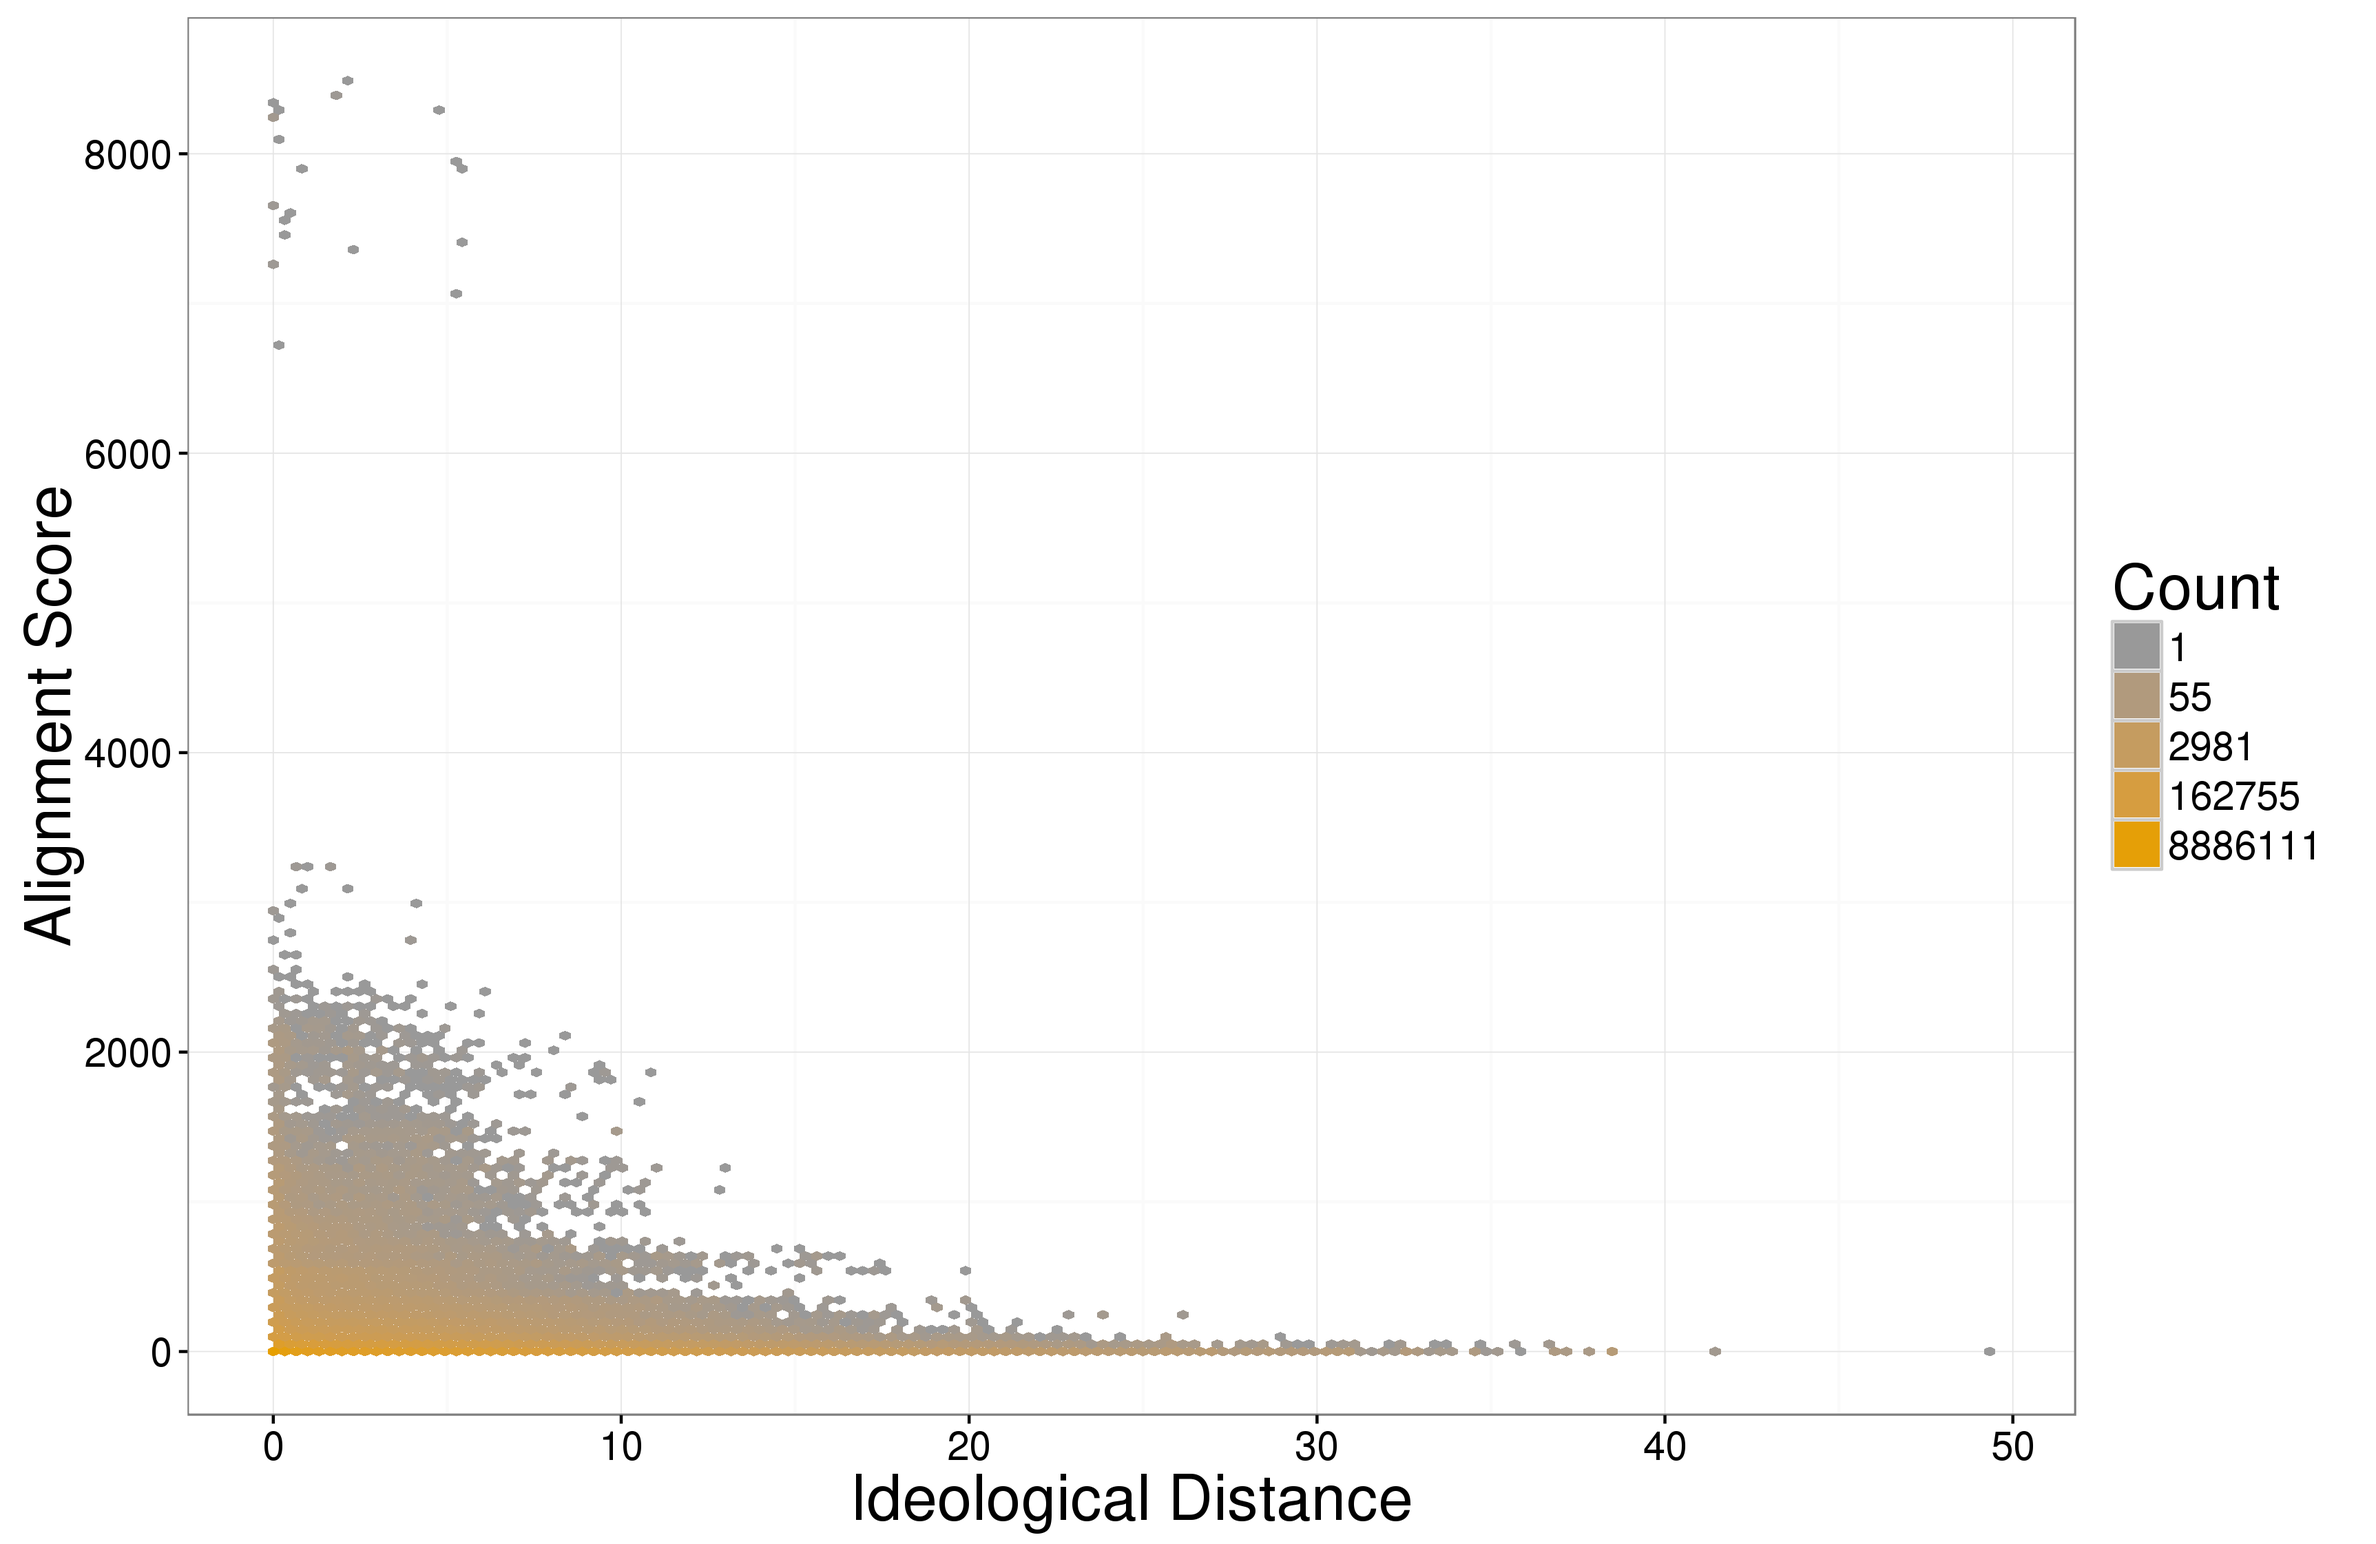
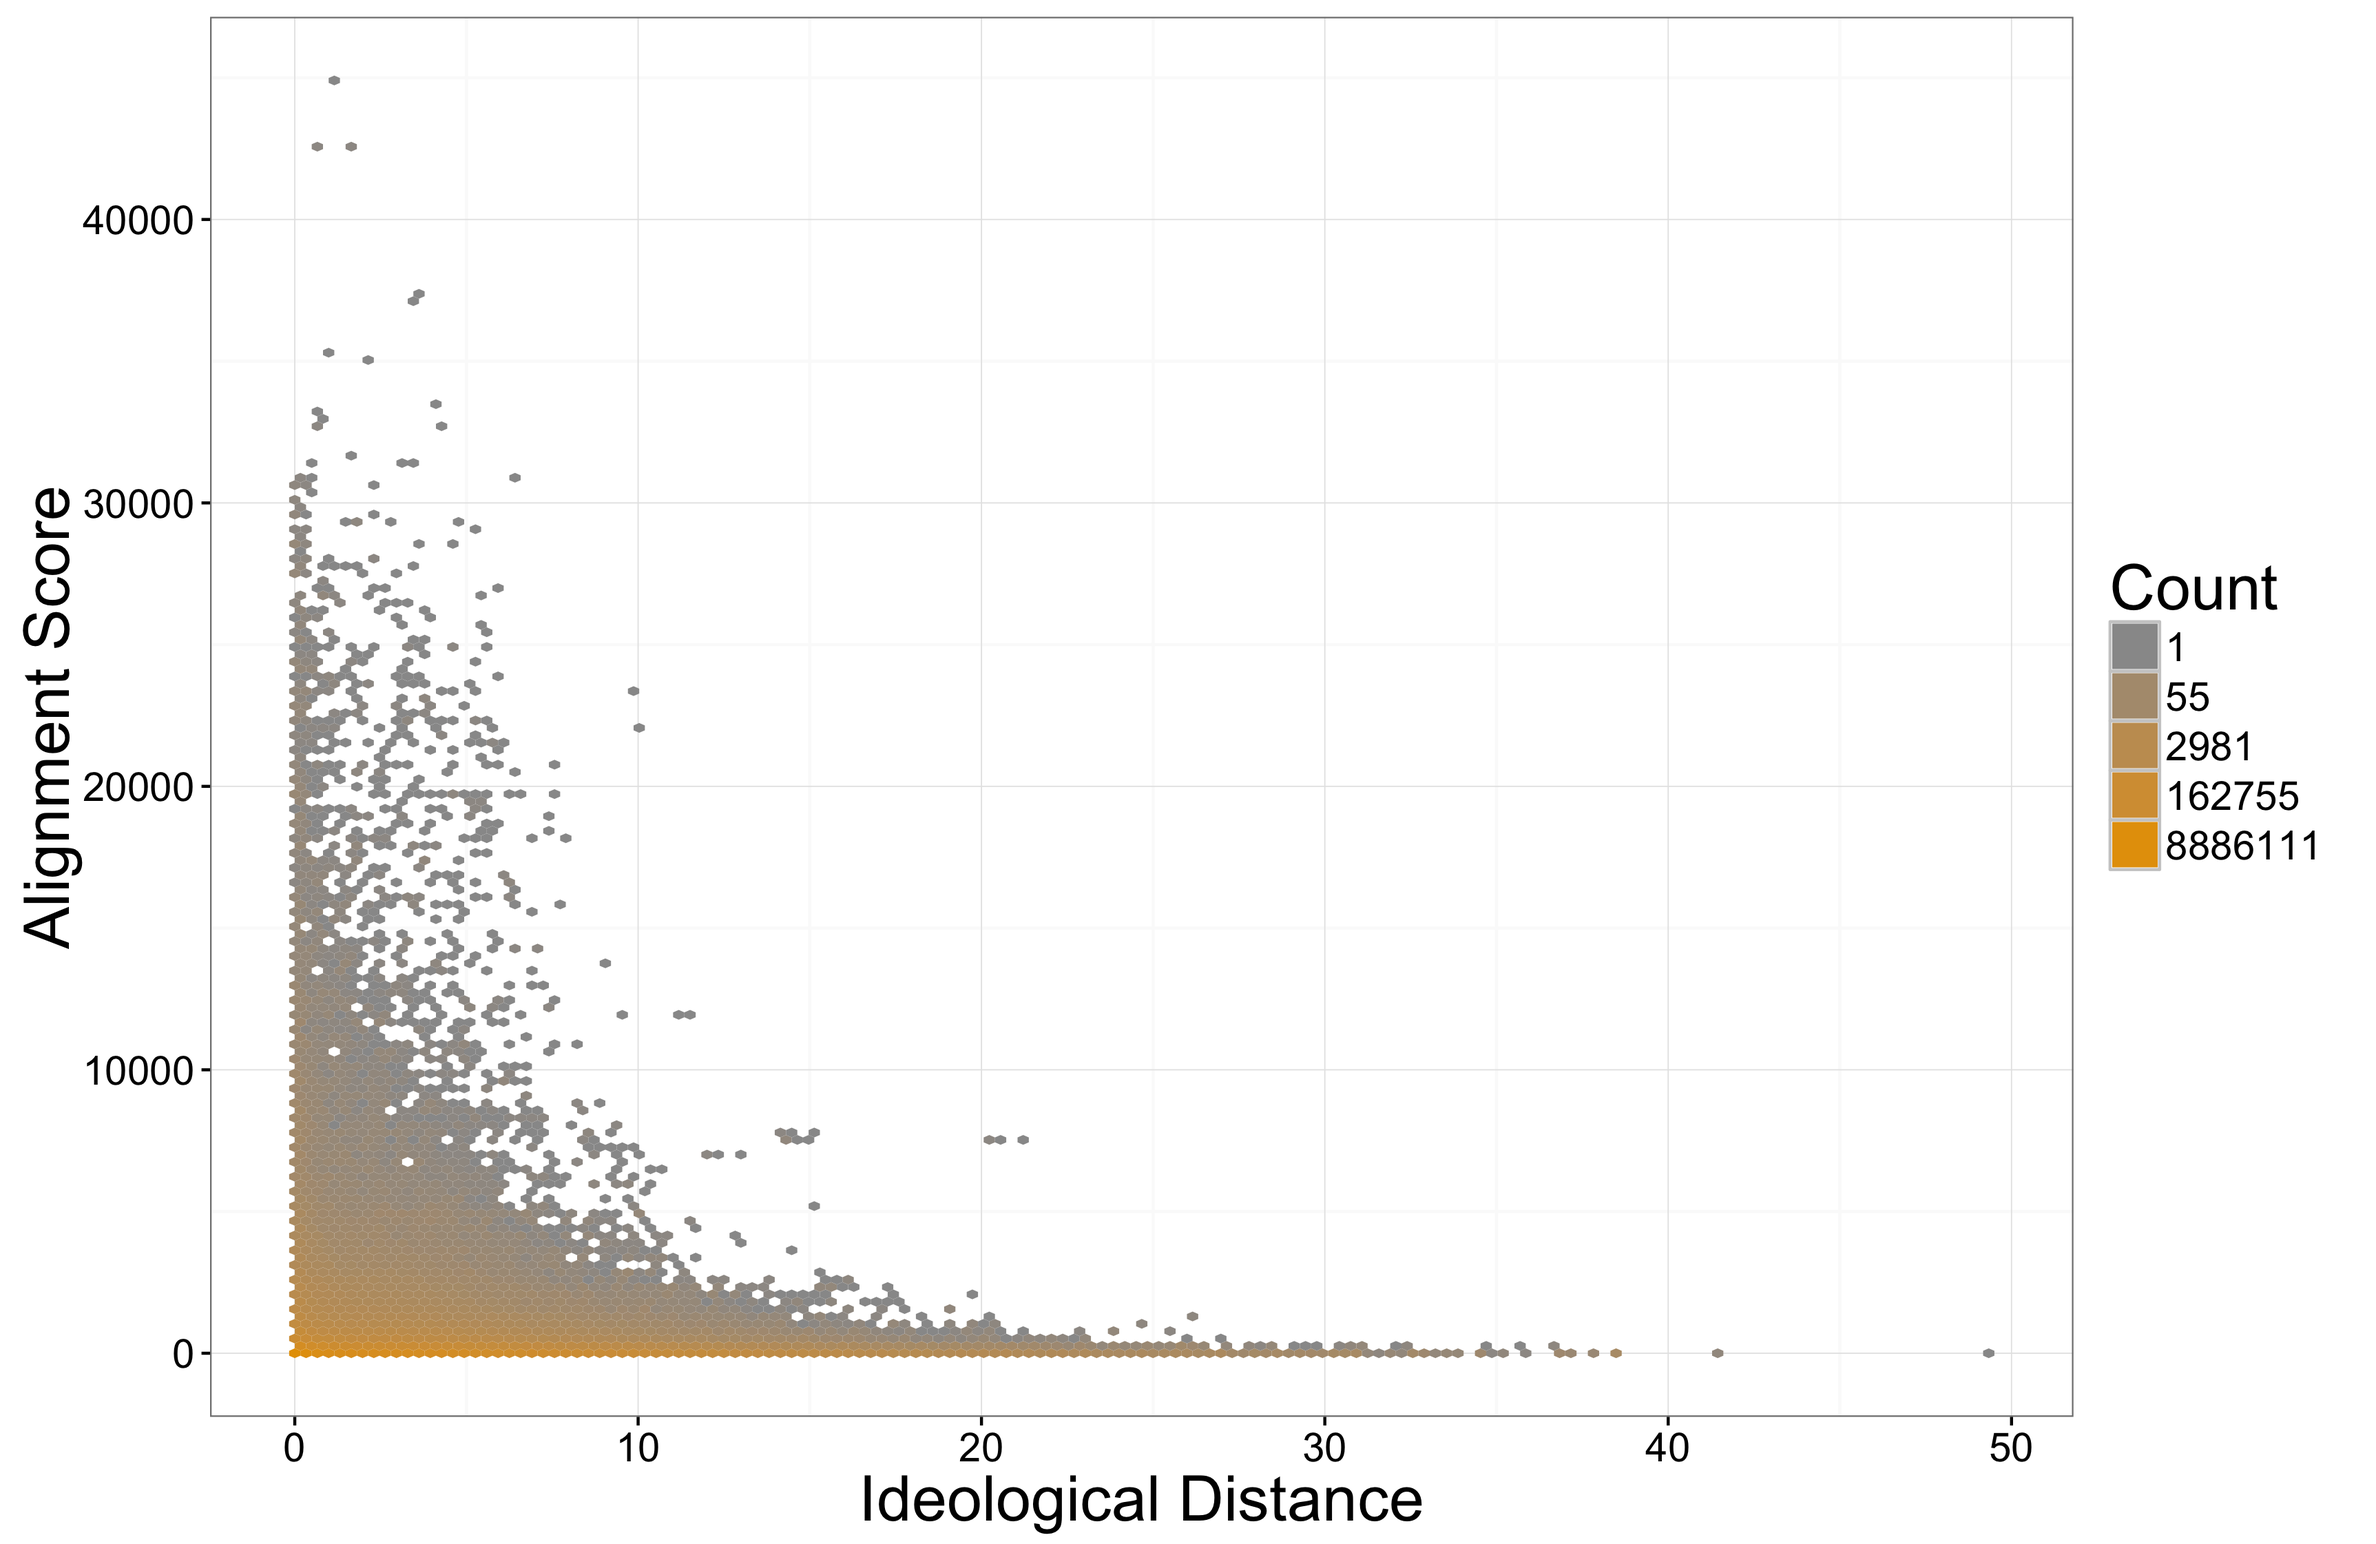
updated analyses with new scores

diff --git a/manuscript/tables/ncsl_bs_reg.tex b/manuscript/tables/ncsl_bs_reg.tex
@@ -1,0 +1,12 @@
+% latex table generated in R 3.2.3 by xtable 1.8-2 package
+% Mon Sep 19 10:44:19 2016
+\begin{table}[ht]
+\centering
+\begin{tabular}{rlll}
+  \hline
+ & Coefficient & Std. Error & 95$\backslash$\% CI \\ 
+  \hline
+Same Table & 0.433 & 0.029 & 0.377 0.487 \\ 
+   \hline
+\end{tabular}
+\end{table}
